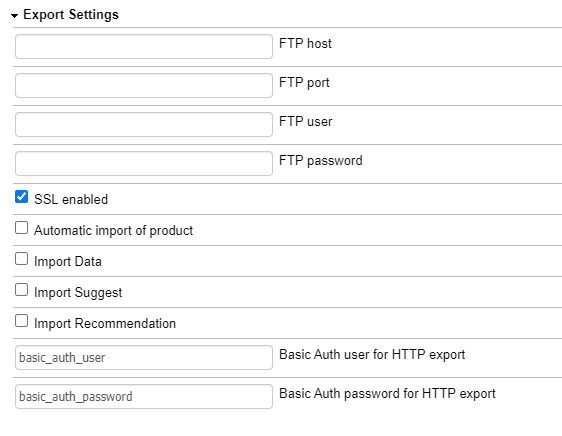
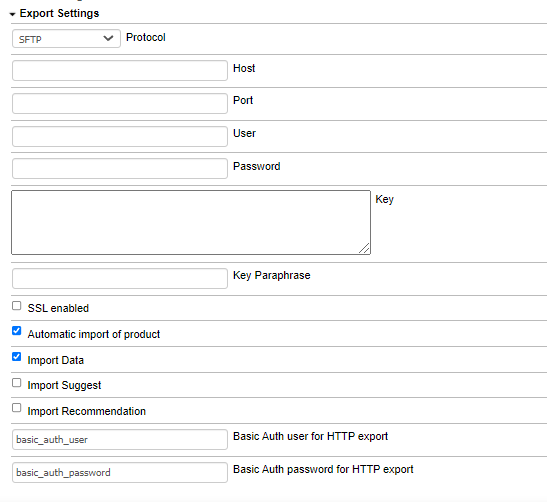
FFWEB-2256 SFTP upload

diff --git a/src/Model/Config/FtpParams.php b/src/Model/Config/FtpParams.php
@@ -12,33 +12,68 @@ class FtpParams
     /** @var Config */
     private $config;
 
+    private $overrides = [];
+
     public function __construct()
     {
         $this->config = Registry::getConfig();
     }
 
+    public function getType(): string
+    {
+        return (string) $this->overrides['type'] ?? $this->config->getConfigParam('ffFtpType');
+    }
+
     public function getHost(): string
     {
-        return (string) $this->config->getConfigParam('ffFtpHost');
+        return (string) $this->overrides['host'] ?? $this->config->getConfigParam('ffFtpHost');
     }
 
     public function getPort(): int
     {
-        return (int) $this->config->getConfigParam('ffFtpPort');
+        return (int) $this->overrides['port'] ?? $this->config->getConfigParam('ffFtpPort');
     }
 
     public function getUser(): string
     {
-        return (string) $this->config->getConfigParam('ffFtpUser');
+        return (string) $this->overrides['username'] ?? $this->config->getConfigParam('ffFtpUser');
     }
 
     public function getPassword(): string
     {
-        return (string) $this->config->getConfigParam('ffFtpPassword');
+        return (string) $this->overrides['password'] ?? $this->config->getConfigParam('ffFtpPassword');
     }
 
     public function useSsl(): bool
     {
-        return boolval($this->config->getConfigParam('ffSSLEnabled'));
+        return boolval($this->overrides['ssl'] ?? $this->config->getConfigParam('ffSSLEnabled'));
+    }
+
+    public function getPrivateKey(): string
+    {
+        return (string) trim($this->overrides['privateKey'] ?? $this->config->getConfigParam('ffFtpKey'));
+    }
+
+    public function getKeyPassphrase(): string
+    {
+        return (string) $this->overrides['passphrase'] ?? $this->config->getConfigParam('ffFtpKeyPassphrase');
+    }
+
+    public function toArray(): array
+    {
+        return [
+            'host'       => $this->getHost(),
+            'port'       => $this->getPort(),
+            'username'   => $this->getUser(),
+            'password'   => $this->getPassword(),
+            'privateKey' => $this->getPrivateKey(),
+            'passphrase' => $this->getKeyPassphrase(),
+            'ssl'        => $this->useSsl(),
+        ];
+    }
+
+    public function setOverrides(array $params): void
+    {
+        $this->overrides = $params;
     }
 }

diff --git a/src/metadata.php b/src/metadata.php
@@ -51,16 +51,6 @@ $aModule = [
             'file'     => 'views/admin/blocks/factfinder_config_field_api_version.tpl',
         ],
         [
-            'template' => 'module_config.tpl',
-            'block'    => 'admin_module_config_var_type_str',
-            'file'     => 'views/admin/blocks/factfinder_config_field_server_url.tpl',
-        ],
-        [
-            'template' => 'module_config.tpl',
-            'block'    => 'admin_module_config_var_type_str',
-            'file'     => 'views/admin/blocks/factfinder_config_field_ftp_host.tpl',
-        ],
-        [
             'template' => 'layout/base.tpl',
             'block'    => 'head_css',
             'file'     => 'views/frontend/blocks/scripts.tpl',
@@ -99,6 +89,11 @@ $aModule = [
             'template' => 'widget/header/search.tpl',
             'block'    => 'widget_header_search_form',
             'file'     => 'views/frontend/widget/search.tpl',
+        ],
+        [
+            'template' => 'module_config.tpl',
+            'block'    => 'admin_module_config_var_type_str',
+            'file'     => 'views/admin/blocks/factfinder_config_field_ftp_key.tpl',
         ],
     ],
     'extend'      => [
@@ -226,6 +221,14 @@ $aModule = [
             'position' => $settingPosition++,
         ],
         [
+            'group'       => 'ffExport',
+            'name'        => 'ffFtpType',
+            'position'    => $settingPosition++,
+            'type'        => 'select',
+            'value'       => 'ftp',
+            'constraints' => 'ftp|sftp',
+        ],
+        [
             'group'    => 'ffExport',
             'name'     => 'ffFtpHost',
             'type'     => 'str',
@@ -246,6 +249,18 @@ $aModule = [
         [
             'group'    => 'ffExport',
             'name'     => 'ffFtpPassword',
+            'type'     => 'str',
+            'position' => $settingPosition++,
+        ],
+        [
+            'group'    => 'ffExport',
+            'name'     => 'ffFtpKey',
+            'type'     => 'str',
+            'position' => $settingPosition++,
+        ],
+        [
+            'group'    => 'ffExport',
+            'name'     => 'ffFtpKeyPassphrase',
             'type'     => 'str',
             'position' => $settingPosition++,
         ],

diff --git a/src/Controller/Admin/TestConnectionController.php b/src/Controller/Admin/TestConnectionController.php
@@ -7,6 +7,7 @@ namespace Omikron\FactFinder\Oxid\Controller\Admin;
 use Omikron\FactFinder\Communication\Client\ClientBuilder;
 use Omikron\FactFinder\Communication\Credentials;
 use Omikron\FactFinder\Communication\Resource\AdapterFactory;
+use Omikron\FactFinder\Oxid\Model\Export\UploadFactory;
 use OxidEsales\Eshop\Application\Controller\Admin\AdminController;
 use OxidEsales\Eshop\Core\Registry;
 use OxidEsales\Eshop\Core\Request;
@@ -35,6 +36,24 @@ class TestConnectionController extends AdminController
             $this->success = true;
             $this->result  = Registry::getLang()->translateString('FF_TEST_CONNECTION_SUCCESS', null, true);
         } catch (ClientExceptionInterface $e) {
+            $this->result = $e->getMessage();
+        }
+    }
+
+    public function testFtpConnection()
+    {
+        try {
+            $params = array_reduce(array_keys($_POST), function (array $acc, string $key): array {
+                $request = Registry::get(Request::class);
+                return $acc + [$key => (string) $request->getRequestEscapedParameter($key)];
+            }, []);
+
+            $ftpUploader = UploadFactory::create($params);
+            $ftpUploader->upload(tmpfile(), 'testconnection');
+
+            $this->success = true;
+            $this->result  = Registry::getLang()->translateString('FF_TEST_CONNECTION_SUCCESS', null, true);
+        } catch (\Exception $e) {
             $this->result = $e->getMessage();
         }
     }

diff --git a/src/views/admin/de/ffwebcomponents_lang.php b/src/views/admin/de/ffwebcomponents_lang.php
@@ -34,10 +34,15 @@ $aLang = [
     'SHOP_MODULE_ffExportAttributes'              => 'Exportierte Attribute',
     'HELP_SHOP_MODULE_ffExportAttributes'         => 'Wähle die Attribute aus, die du exportieren möchtest. Multi-Attribute werden in einer Spalte gruppiert, und stellen typischerweise Filter dar.',
     'SHOP_MODULE_GROUP_ffExport'                  => 'Export-Einstellungen',
-    'SHOP_MODULE_ffFtpHost'                       => 'FTP-Host',
-    'SHOP_MODULE_ffFtpPort'                       => 'FTP-Port',
-    'SHOP_MODULE_ffFtpUser'                       => 'FTP-User',
-    'SHOP_MODULE_ffFtpPassword'                   => 'FTP-Password',
+    'SHOP_MODULE_ffFtpType'                       => 'Protocol',
+    'SHOP_MODULE_ffFtpType_ftp'                   => 'FTP',
+    'SHOP_MODULE_ffFtpType_sftp'                  => 'SFTP',
+    'SHOP_MODULE_ffFtpHost'                       => 'Host',
+    'SHOP_MODULE_ffFtpPort'                       => 'Port',
+    'SHOP_MODULE_ffFtpUser'                       => 'User',
+    'SHOP_MODULE_ffFtpPassword'                   => 'Password',
+    'SHOP_MODULE_ffFtpKey'                        => 'Key',
+    'SHOP_MODULE_ffFtpKeyPassphrase'              => 'Key Passphrase',
     'SHOP_MODULE_ffSSLEnabled'                    => 'SSL aktiv?',
     'SHOP_MODULE_ffAutomaticImport'               => 'Automatic import of product',
     'SHOP_MODULE_ffAutomaticImportData'           => 'Import Data',

diff --git a/src/views/admin/en/ffwebcomponents_lang.php b/src/views/admin/en/ffwebcomponents_lang.php
@@ -34,10 +34,15 @@ $aLang = [
     'SHOP_MODULE_ffExportAttributes'              => 'Exported Attributes',
     'HELP_SHOP_MODULE_ffExportAttributes'         => 'Select attributes which you want to export. Multi-Attribute set to `No` means that specific attribute will be exported in separate column.',
     'SHOP_MODULE_GROUP_ffExport'                  => 'Export Settings',
-    'SHOP_MODULE_ffFtpHost'                       => 'FTP host',
-    'SHOP_MODULE_ffFtpPort'                       => 'FTP port',
-    'SHOP_MODULE_ffFtpUser'                       => 'FTP user',
-    'SHOP_MODULE_ffFtpPassword'                   => 'FTP password',
+    'SHOP_MODULE_ffFtpType'                       => 'Protocol',
+    'SHOP_MODULE_ffFtpType_ftp'                   => 'FTP',
+    'SHOP_MODULE_ffFtpType_sftp'                  => 'SFTP',
+    'SHOP_MODULE_ffFtpHost'                       => 'Host',
+    'SHOP_MODULE_ffFtpPort'                       => 'Port',
+    'SHOP_MODULE_ffFtpUser'                       => 'User',
+    'SHOP_MODULE_ffFtpPassword'                   => 'Password',
+    'SHOP_MODULE_ffFtpKey'                        => 'Key',
+    'SHOP_MODULE_ffFtpKeyPassphrase'              => 'Key Passphrase',
     'SHOP_MODULE_ffSSLEnabled'                    => 'SSL enabled',
     'SHOP_MODULE_ffAutomaticImport'               => 'Automatic import of product',
     'SHOP_MODULE_ffAutomaticImportData'           => 'Import Data',

diff --git a/src/Model/Export/SftpClient.php b/src/Model/Export/SftpClient.php
@@ -5,33 +5,33 @@ declare(strict_types=1);
 namespace Omikron\FactFinder\Oxid\Model\Export;
 
 use League\Flysystem\Filesystem;
-use League\Flysystem\Ftp\FtpAdapter;
-use League\Flysystem\Ftp\FtpConnectionOptions;
+use League\Flysystem\PhpseclibV2\SftpAdapter;
+use League\Flysystem\PhpseclibV2\SftpConnectionProvider;
 use Omikron\FactFinder\Oxid\Model\Config\FtpParams;
 
-class FtpClient implements UploadInterface
+class SftpClient implements UploadInterface
 {
     /** @var FtpParams */
-    private $params;
+    private $ftpParams;
 
     /** @var Filesystem */
     private $connection;
 
-    public function __construct(FtpParams $params)
+    public function __construct(FtpParams $ftpParams)
     {
-        $this->params = $params;
+        $this->ftpParams = $ftpParams;
     }
 
     public function upload($handle, string $filename)
     {
         if (!$this->connection) {
-            $this->connect($this->params);
+            $this->connect($this->ftpParams);
         }
         $this->connection->writeStream(sprintf('/export/%s', $filename), $handle);
     }
 
     private function connect(FtpParams $params)
     {
-        $this->connection = new Filesystem(new FtpAdapter(FtpConnectionOptions::fromArray($params->toArray())));
+        $this->connection = new Filesystem(new SftpAdapter(SftpConnectionProvider::fromArray($params->toArray()), '/'));
     }
 }

diff --git a/src/Controller/Admin/ArticleFeedController.php b/src/Controller/Admin/ArticleFeedController.php
@@ -7,8 +7,7 @@ namespace Omikron\FactFinder\Oxid\Controller\Admin;
 use Omikron\FactFinder\Oxid\Export\ArticleFeed;
 use Omikron\FactFinder\Oxid\Export\Stream\Csv;
 use Omikron\FactFinder\Oxid\Model\Api\PushImport;
-use Omikron\FactFinder\Oxid\Model\Config\FtpParams;
-use Omikron\FactFinder\Oxid\Model\Export\FtpClient;
+use Omikron\FactFinder\Oxid\Model\Export\UploadFactory;
 use OxidEsales\Eshop\Application\Controller\Admin\AdminController;
 use OxidEsales\Eshop\Core\Registry;
 
@@ -27,8 +26,8 @@ class ArticleFeedController extends AdminController
             $articleFeed->generate(oxNew(Csv::class, $handle));
             $result[] = $this->translate('FF_ARTICLE_FEED_EXPORT_SUCCESS');
 
-            $ftpClient = oxNew(FtpClient::class, oxNew(FtpParams::class));
-            $ftpClient->upload($handle, $articleFeed->getFileName());
+            $uploader = UploadFactory::create();
+            $uploader->upload($handle, $articleFeed->getFileName());
             $result[] = $this->translate('FF_ARTICLE_FEED_UPLOAD_SUCCESS');
 
             $pushImport = oxNew(PushImport::class);

diff --git a/src/bin/feed-upload.php b/src/bin/feed-upload.php
@@ -1,6 +1,7 @@
 <?php
 
 use \Omikron\FactFinder\Oxid\Export\FeedTypes;
+use \Omikron\FactFinder\Oxid\Model\Export\UploadFactory;
 
 $options = getopt('s:t:l:');
 $shopId  = $options['s'] ?? 0;
@@ -31,12 +32,12 @@ try {
     Registry::getLang()->setBaseLanguage($languageId);
 
     $articleFeed = oxNew($feedFQN);
-    $ftpUploader = oxNew(FtpClient::class, oxNew(FtpParams::class));
+    $uploader = oxNew(UploadFactory::class)->create();
     $pushImport  = oxNew(PushImport::class);
 
     $handle = tmpfile();
     $articleFeed->generate(oxNew(Csv::class, $handle));
-    $ftpUploader->upload($handle, $articleFeed->getFileName());
+    $uploader->upload($handle, $articleFeed->getFileName());
     $pushImport->execute();
 } finally {
     fclose($handle);

diff --git a/src/Model/Export/UploadFactory.php b/src/Model/Export/UploadFactory.php
@@ -1,0 +1,17 @@
+<?php
+
+declare(strict_types=1);
+
+namespace Omikron\FactFinder\Oxid\Model\Export;
+
+use Omikron\FactFinder\Oxid\Model\Config\FtpParams;
+
+class UploadFactory
+{
+    public static function create(array $overrides = []): UploadInterface
+    {
+        $params = oxNew(FtpParams::class);
+        $params->setOverrides($overrides);
+        return $params->getType() === 'ftp' ? oxNew(FtpClient::class, $params) : oxNew(SftpClient::class, $params);
+    }
+}

diff --git a/src/Model/Export/UploadInterface.php b/src/Model/Export/UploadInterface.php
@@ -1,0 +1,10 @@
+<?php
+
+declare(strict_types=1);
+
+namespace Omikron\FactFinder\Oxid\Model\Export;
+
+interface UploadInterface
+{
+    public function upload($handle, string $filename);
+}

diff --git a/README.md b/README.md
@@ -158,10 +158,13 @@ be able to download the feed file. You can include Basic Authentication credenti
     https://[username]:[password]@[REST_OF_URL]
 
 ### FTP Export
-With this approach, the exported feed file is uploaded to a specific FTP server.
+With this approach, the exported feed file is uploaded to a specific FTP/SFTP server.
 Once the feed file is uploaded, FACT-Finder® is requested to begin an import based on uploaded file (optional).
 All settings related to this exporting method are found in [Export Settings](#export-settings).
-**Note:** Used FTP server should be also accessible to FACT-Finder®.
+Fields Key and Key Passphrase are dedicated only to the SFTP.
+Field SSL Enabled is dedicated only to FTP.
+
+**Note:** Used FTP/SFTP server should be also accessible to FACT-Finder®.
 
 #### Admin Panel Export
 `Export Feed` button located in module configuration, could be used to manually trigger an export.
